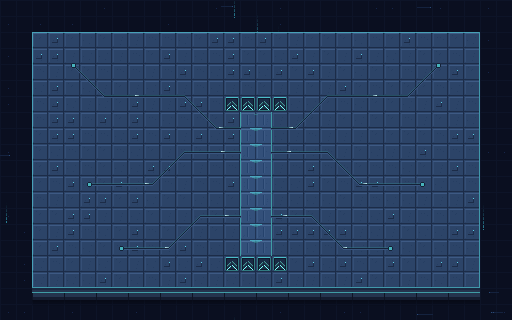
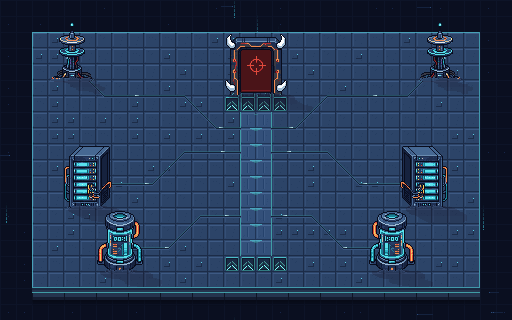
Karte 16: Objekte (Firewall-Tor, Server, Antennen, Datentanks, gespiegelt); Karte 17: Virus-Befall und Kabelnetz
Claude-Session: https://claude.ai/code/session_01SaoYHKhnro4LFcPJqjaPsq

diff --git a/tools/karte17_bauen.py b/tools/karte17_bauen.py
@@ -6,7 +6,7 @@ darunter. Rechte Insel: 6x5 Aufstellplaetze und zwei cyan Teleporter. Animation:
 
   python3 tools/karte17_bauen.py
 """
-import json, math, os, sys
+import json, math, os, random, sys
 sys.path.insert(0, os.path.dirname(os.path.abspath(__file__)))
 import numpy as np
 from PIL import Image
@@ -65,6 +65,88 @@ def ring(a, cx, cy, frame):
         a[int(cy) - 9 + dy, int(cx) - 9 + dx] = np.clip(np.array([200, 225, 245]) * p, 0, 255).astype(np.uint8)
 
 
+ROT = np.array([230, 40, 60], np.float32)
+
+
+def befall_karte(lay):
+    """Welche Kacheln sind befallen (0 rein, 1 leicht, 2 schwer): Wolken aus Rauschen, nach rechts immer staerker
+    (linke Insel: fruehe Stufen, rechte Insel: spaete Stufen). Aufstellplaetze, Teleporter und Ring bleiben frei."""
+    cols, rows = lay['groesse']
+    rs = np.random.RandomState(1717)
+    n = np.array(Image.fromarray((rs.rand(rows // 3 + 2, cols // 3 + 2) * 255).astype(np.uint8))
+                 .resize((cols, rows), Image.BICUBIC)).astype(np.float32) / 255
+    xs = np.arange(cols)[None, :] / cols
+    wert = n * 0.75 + xs * 0.55
+    st = np.zeros((rows, cols), int)
+    st[wert > 0.78] = 1
+    st[wert > 0.98] = 2
+    kl = np.array([list(r) for r in lay['klassen']])
+    st[kl == '.'] = 0
+    frei = np.zeros_like(st, bool)
+    for (x0, y0, b, h) in lay['plaetze']:
+        frei[y0 - 1:y0 + h + 1, x0 - 1:x0 + b + 1] = True
+    for tp in lay['teleporter']:
+        frei[tp['y'] - 1:tp['y'] + tp['h'] + 1, tp['x'] - 1:tp['x'] + tp['b'] + 1] = True
+    rx, ry = lay['ring']
+    frei[int(ry) - 2:int(ry) + 2, int(rx) - 2:int(rx) + 2] = True
+    st[frei] = 0
+    return st
+
+
+def befall_zeichnen(a, st, frame):
+    """Befallene Kacheln: leicht = rot verfaerbt mit Glitch-Pixeln, schwer = schwarz mit rot pulsierenden Adern;
+    Glitch-Bloecke flackern (4 Bilder)."""
+    f = frame or 0
+    rows, cols = st.shape
+    for y in range(rows):
+        for x in range(cols):
+            if not st[y, x]:
+                continue
+            rs = random.Random(y * 131 + x * 7)
+            sub = a[y * T:(y + 1) * T, x * T:(x + 1) * T].astype(np.float32)
+            if st[y, x] == 1:
+                sub = sub * np.array([1.05, 0.55, 0.62])
+            else:
+                sub = sub * np.array([0.42, 0.22, 0.28])
+            a[y * T:(y + 1) * T, x * T:(x + 1) * T] = np.clip(sub, 0, 255).astype(np.uint8)
+            p = 0.55 + 0.45 * math.sin(2 * math.pi * (f / N_FRAMES + rs.random()))
+            X, Y = x * T + rs.randint(2, 13), y * T + rs.randint(2, 13)        # Ader (Riss mit Licht)
+            for i in range(rs.randint(8, 16) if st[y, x] == 2 else rs.randint(4, 8)):
+                if x * T <= X < (x + 1) * T and y * T <= Y < (y + 1) * T:
+                    a[Y, X] = np.clip(ROT * (0.5 + 0.5 * p) if st[y, x] == 2 else ROT * 0.6, 0, 255).astype(np.uint8)
+                X += rs.choice((-1, 0, 1)); Y += rs.choice((-1, 0, 1))
+            for k_ in range(2 if st[y, x] == 1 else 3):                       # Glitch-Bloecke flackern
+                if (f + k_ + x + y) % 4 == 0:
+                    continue
+                gx, gy = x * T + rs.randint(1, 12), y * T + rs.randint(1, 12)
+                c = rs.choice(((230, 40, 90), (20, 10, 16), (200, 30, 40), (230, 40, 90), (20, 10, 16), (250, 240, 240)))
+                a[gy:gy + 2, gx:gx + rs.choice((2, 3))] = c
+
+
+def kabelnetz(a, lay, leer, frame):
+    """Netz aus schwarzen Kabeln zwischen den Inseln (an den Kanten verankert, haengt leicht durch), rote Knoten;
+    ein roter Lichtpunkt laeuft in 4 Bildern von rechts (Befall) nach links."""
+    f = frame or 0
+    (lx, ly_, lb, lh), (rx, _, _, _) = lay['inseln']
+    xa, xb = (lx + lb) * T, rx * T - 1
+    for k_, (ya, yb, durch) in enumerate(((RAND + 4, RAND + 6, 10), (RAND + 9, RAND + 8, 14), (RAND + 14, RAND + 16, 12),
+                                          (RAND + 19, RAND + 18, 8))):
+        pts = []
+        for i in range(xb - xa + 1):
+            t = i / (xb - xa)
+            y = (ya + (yb - ya) * t) * T + 8 + durch * 4 * t * (1 - t)
+            pts.append((xa + i, int(round(y))))
+        for (x, y) in pts:
+            if leer[y, x]:
+                a[y, x] = H('#06060c'); a[y + 1, x] = H('#2a1a24')
+        j = int((N_FRAMES - 1 - f) / N_FRAMES * len(pts) + k_ * 7) % len(pts)
+        for jj in range(max(0, j - 3), min(len(pts), j + 1)):
+            x, y = pts[jj]
+            a[y, x] = np.clip(ROT * 1.1, 0, 255).astype(np.uint8)
+        for (x, y) in (pts[len(pts) // 3], pts[2 * len(pts) // 3]):              # Knoten
+            a[y - 1:y + 2, x - 1:x + 2] = H('#a01c2a'); a[y, x] = H('#ff6070')
+
+
 def bauen(frame=None, speichern=True):
     lay = layout()
     cols, rows = lay['groesse']
@@ -81,7 +163,7 @@ def bauen(frame=None, speichern=True):
             for x in range(x0 * T, (x0 + b) * T):
                 c = np.array(H('#1a2840') if d < 2 else H('#24344e') if d < 9 else H('#141c30'), np.float32)
                 if d == 4:
-                    c = k16.CYAN * (0.55 + 0.3 * (0.5 + 0.5 * math.sin(2 * math.pi * ((frame or 0) / N_FRAMES))))
+                    c = (k16.CYAN if x0 == INSELN[0] else ROT) * (0.55 + 0.3 * (0.5 + 0.5 * math.sin(2 * math.pi * ((frame or 0) / N_FRAMES))))
                 if (x - x0 * T) % 32 == 0 and d >= 5:
                     c = np.array(H('#0e1424'), np.float32)
                 a[yf + d, x] = np.clip(c, 0, 255).astype(np.uint8)
@@ -91,7 +173,12 @@ def bauen(frame=None, speichern=True):
     leer = ~boden & ~front
     k16.leere_zeichnen(a, leer, frame, seed=17)
     puls = 0.5 + 0.5 * math.sin(2 * math.pi * (frame or 0) / N_FRAMES)
-    k16.mischen(a, k16.kontur(boden), k16.CYAN, 0.45 + 0.3 * puls)
+    kante = k16.kontur(boden)
+    rechts = np.zeros_like(kante); rechts[:, lay['inseln'][1][0] * T:] = True
+    k16.mischen(a, kante & ~rechts, k16.CYAN, 0.45 + 0.3 * puls)
+    k16.mischen(a, kante & rechts, ROT, 0.5 + 0.3 * puls)           # rechte Insel: Kante vom Virus rot gefaerbt
+    befall_zeichnen(a, befall_karte(lay), frame)
+    kabelnetz(a, lay, leer, frame)
     for (x0, y0, b, h) in lay['plaetze']:
         for j in range(h):
             for i in range(b):

diff --git a/tools/pixellab_objekte.py b/tools/pixellab_objekte.py
@@ -1358,6 +1358,26 @@ OBJEKTGRUPPEN_K16 = {
         'glowing orange data mailbox, a small terminal with an envelope icon screen',
         'small cyber tree made of glowing cyan circuit lines on a metal base',
     ]},
+    'k17_virus': {'size': 48, 'items': [   # Anspielungen auf die Virus-Linie nur ueber Farben und Motive
+        'cracked white digital egg with red and yellow spots, glowing red data leaking from the crack, on a small pile of corrupted pixel blocks',
+        'small cluster of round red and white virus bug eggs with tiny dark eyes, glitching pixels around them',
+        'grey silken cocoon made of tangled data cables hanging from a broken cable mast, faint red glow inside',
+        'tangle of dark cables forming a spider web with a glowing red node in the center, anchored on the floor',
+        'black bone-like spike pillar with red glowing markings and jagged white bone tips',
+        'big curved red-brown horn shard sticking out of the floor, cracked, red glow in the cracks',
+        'corrupted dark server tower with a red glitching screen and black tendrils growing out of it',
+        'broken network pylon wrapped in black thorny data tendrils with red glow',
+        'pile of corrupted pixel blocks in red, magenta and black',
+        'red warning hologram with a glitching virus symbol floating above a small emitter',
+        'black cable tentacles bursting out of a floor crack with red light',
+        'grey cocoon shell of cables broken open and empty',
+    ]},
+    'k17_gross': {'size': 96, 'items': [
+        'huge black and red corrupted data crystal formation with white bone spikes, red glowing veins',
+        'giant broken cocoon made of grey data cables with a red glowing core, cables spreading on the floor',
+        'large web of black data cables stretched between two broken network pylons, glowing red nodes',
+        'giant red-brown horn pair rising from a corrupted floor crater, black and red glitch blocks around',
+    ]},
     'k16_klein': {'size': 32, 'items': [
         'small golden data chip item lying on the floor, glowing softly',
         'small coil of dark cable lying on the floor',
@@ -1423,7 +1443,9 @@ def herunterladen(oid, d):
 
 
 def speichern(gruppe, ims, ids):
-    if gruppe.startswith('k16_'):
+    if gruppe.startswith('k17_'):
+        ziel = os.path.join(ROOT, 'assets', 'objekte', 'karte17', gruppe[4:])
+    elif gruppe.startswith('k16_'):
         ziel = os.path.join(ROOT, 'assets', 'objekte', 'karte16', gruppe[4:])
     elif gruppe.startswith('k15_'):
         ziel = os.path.join(ROOT, 'assets', 'objekte', 'karte15', gruppe[4:])
@@ -1478,8 +1500,8 @@ def erzeugen(gruppe):
     k4 = gruppe.startswith('k4_')
     k5 = gruppe.startswith('k5_')
     k6 = gruppe.startswith('k6_') or gruppe.startswith('k7_')
-    if gruppe.startswith(('k11_', 'k12_', 'k13_', 'k14_', 'k15_', 'k16_')):
-        g, stil_, pal_, pn_ = ((OBJEKTGRUPPEN_K16[gruppe], STIL_K16, PALETTE_K16, 'Karte16 Network') if gruppe.startswith('k16_') else
+    if gruppe.startswith(('k11_', 'k12_', 'k13_', 'k14_', 'k15_', 'k16_', 'k17_')):
+        g, stil_, pal_, pn_ = ((OBJEKTGRUPPEN_K16[gruppe], STIL_K16, PALETTE_K16, 'Karte16 Network') if gruppe.startswith(('k16_', 'k17_')) else
                                (OBJEKTGRUPPEN_K15[gruppe], STIL_K15, PALETTE_K15, 'Karte15 Realm') if gruppe.startswith('k15_') else
                                (OBJEKTGRUPPEN_K14[gruppe], STIL_K14, PALETTE_K14, 'Karte14 Summit') if gruppe.startswith('k14_') else
                                (OBJEKTGRUPPEN_K13[gruppe], STIL_K13, PALETTE_K13, 'Karte13 Machine City') if gruppe.startswith('k13_') else

diff --git a/tools/karte16_objekte.py b/tools/karte16_objekte.py
@@ -1,0 +1,58 @@
+"""Objekte fuer Karte 16 (The Network) - am 16x16-Raster, Paare exakt gespiegelt zur Achse (x = 256 px).
+
+  python3 tools/karte16_bauen.py && python3 tools/karte16_objekte.py && python3 tools/karte16_bauen.py
+
+Neu (PixelLab k16_tor, k16_klein): Firewall-Tor mit rotem Schirm (nach der Vorlage), Server-Schrank, Antennenknoten,
+Datentank; gelber Datenchip wie in der Vorlage. Die Server stehen genau auf den Endknoten der Leiterbahnen.
+"""
+import json, os, sys
+sys.path.insert(0, os.path.dirname(os.path.abspath(__file__)))
+import numpy as np
+from PIL import Image
+from karte04_objekte import saeubern
+
+ROOT = os.path.join(os.path.dirname(os.path.abspath(__file__)), '..')
+T = 16
+
+
+def platzieren(karte, eintraege, achse):
+    """eintraege: (Quelle, Mitte x px, Fuss-Kachelreihe, Animation, gespiegelt-Paar?)"""
+    OBJ = os.path.join(ROOT, 'assets', 'objekte', karte)
+    os.makedirs(os.path.join(OBJ, 'sauber'), exist_ok=True)
+    objekte = []
+    for name, mx, reihe, anim, paar in eintraege:
+        for spiegel in ((False, True) if paar else (False,)):
+            sp = saeubern(Image.open(os.path.join(OBJ, name + '.png')).convert('RGBA'))
+            if spiegel:
+                sp = sp.transpose(Image.FLIP_LEFT_RIGHT)
+            datei = 'sauber/%s%s.png' % (name.replace('/', '-'), '_m' if spiegel else '')
+            sp.save(os.path.join(OBJ, datei))
+            al = np.array(sp.getchannel('A')) >= 128
+            zu = int(np.nonzero(al.any(axis=1))[0].max())
+            xs = np.nonzero(al.any(axis=0))[0]
+            m = (xs.min() + xs.max() + 1) / 2.0
+            cx = 2 * achse - mx if spiegel else mx
+            o = {'datei': datei, 'basis': name, 'x': int(round(cx - m)), 'y': (reihe + 1) * T - 1 - zu, 'fuss': zu,
+                 'kachel': [int(cx // T), reihe], 'ebene': 1}
+            if anim:
+                o['anim'] = anim
+            if paar:
+                o['symm'] = name
+            objekte.append(o)
+    json.dump(objekte, open(os.path.join(OBJ, 'platzierung.json'), 'w'), indent=0)
+    print('%s: %d Objekte' % (karte, len(objekte)))
+
+
+ACHSE = 256
+EINTRAEGE = [
+    ('tor/00', ACHSE, 5, 'glimmen', False),            # Firewall-Tor oben auf der Achse
+    ('tor/04', 5.5 * T, 12, 'glimmen', True),          # Server auf den Endknoten der Leiterbahnen
+    ('tor/07', 4.5 * T, 4, 'glimmen', True),           # Antennenknoten
+    ('tor/03', 7.5 * T, 16, 'glimmen', True),          # Datentank
+]
+
+if __name__ == '__main__':
+    eintraege = list(EINTRAEGE)
+    if os.path.exists(os.path.join(ROOT, 'assets', 'objekte', 'karte16', 'klein', '00.png')):
+        eintraege.append(('klein/00', 19.5 * T, 7, 'glimmen', False))   # gelber Datenchip (wie die Vorlage)
+    platzieren('karte16', eintraege, ACHSE)
